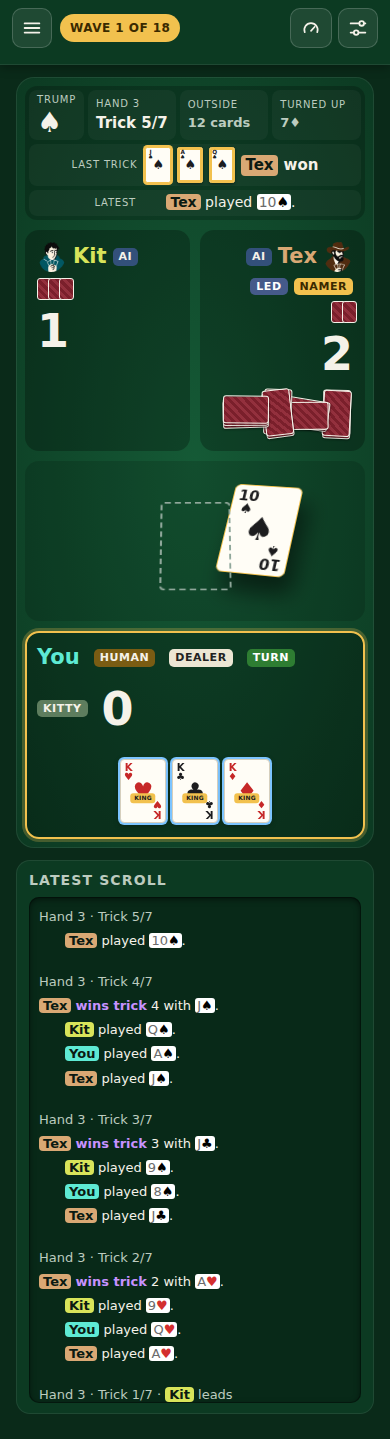
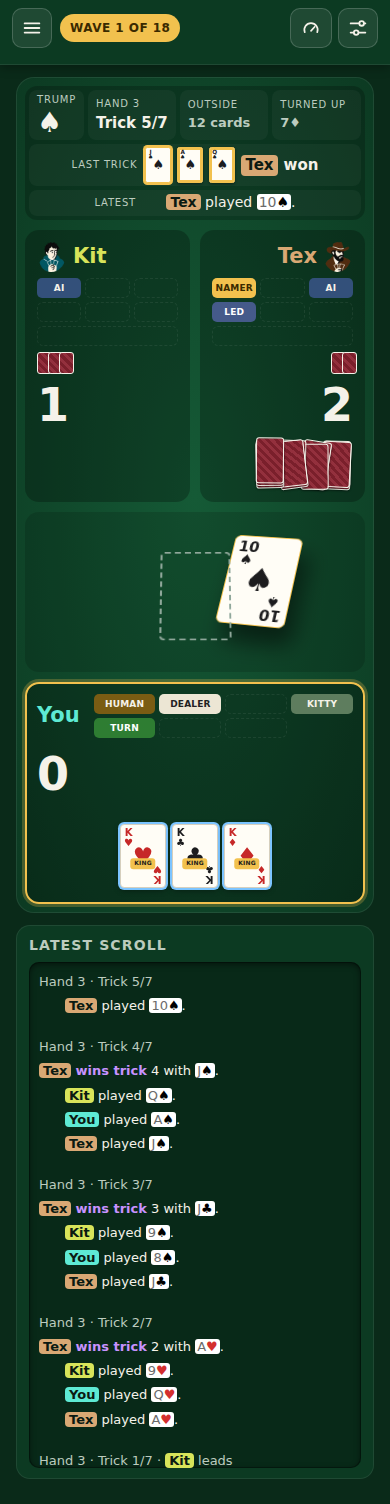
Give seat tags fixed slots; make won tricks all vertical
Every seat reserves the same tag cells (bots: a three-column grid; you:
one row of seven), so names, hand backs and scores line up across West
and East. Won-trick stacks are all vertical.

Claude-Session: https://claude.ai/code/session_01QkpazkapUFZWg4SWZB1dDA

diff --git a/mockups/advanced.js b/mockups/advanced.js
@@ -36,7 +36,20 @@ const css = `
 .seat-east .seat-head{flex-direction:row-reverse}
 .seat-east{align-items:flex-end}
 .seat-east .score-row{justify-content:flex-end}
-.seat .seat-head{order:0}.seat .backs{order:1}.seat .score-row{order:2}.seat .won{order:3}
+.seat .seat-head{order:0}.seat .tagbox{order:1}.seat .backs{order:2}.seat .score-row{order:3}.seat .won{order:4}
+.seat .backs{min-height:24px}
+/* Tags in fixed slots: every seat reserves the same cells, so names, backs and scores line up. */
+.tagbox{display:grid;grid-template-columns:repeat(3,minmax(0,1fr));grid-auto-rows:20px;gap:4px;width:100%}
+.seat-east .tagbox{direction:rtl}
+.tagbox .tag{margin:0;justify-self:stretch;display:flex;align-items:center;justify-content:center;font-size:10px;padding:0 2px;overflow:hidden;white-space:nowrap;direction:ltr}
+.tagbox .cell{border-radius:6px;outline:1px dashed rgba(255,255,255,.07);outline-offset:-1px}
+.tagbox .sd{grid-column:span 3}
+.me .tagbox{grid-template-columns:repeat(7,minmax(0,64px));width:auto}
+.me .tagbox .sd{grid-column:span 1}
+@media (max-width:720px){
+  .me .tagbox{grid-template-columns:repeat(4,minmax(0,1fr));flex:1 1 220px}.me .tagbox .sd{grid-column:span 1}
+  .tagbox .tag{font-size:9px;letter-spacing:.02em}
+}
 .won{all:unset;display:flex;flex-wrap:wrap;align-items:center;gap:4px 0;min-height:48px;padding:4px;cursor:pointer;border-radius:8px;max-width:100%}
 .won:hover{background:rgba(255,255,255,.06)}.won:focus-visible{outline:2px solid var(--gold);outline-offset:2px}
 .seat-east .won{align-self:flex-end;flex-direction:row-reverse}
@@ -63,20 +76,27 @@ const css = `
 document.head.insertAdjacentHTML('beforeend', '<style id="mockAdv">' + css + '</style>');
 // Top bar: speed icon with a label.
 const sp = $('.speed-pick'), cur = $('#speedSel'); sp.title = 'Speed: ' + cur.options[cur.selectedIndex].text;
-// Seats: Turn and Led tags in fixed order; won-trick stacks replace the text.
-const order = ['ai', 'you', 'dealer', 'turn', 'caller', 'receiver', 'led', 'mediator', 'showdown'];
+// Seats: tags move into fixed slots (bots: Human/AI, Dealer, Namer / Kitty, Turn, Led / Mediator or Showdown; you: one row);
+// won-trick stacks replace the text.
+const SLOTS = [['ai you', 'id'], ['dealer', 'dealer'], ['caller', 'namer'], ['receiver', 'kitty'], ['turn', 'turn'], ['led', 'led'], ['mediator showdown', 'sd']];
 for (const s of $$('#seat1,#seat2,#seat0')) {
   const head = $('.seat-head,.me-head', s), id = +s.id.slice(4);
   if (window.__turn === id) head.insertAdjacentHTML('beforeend', '<span class="tag turn" style="background:#2e7d32;color:#fff">Turn</span>');
   if (window.__led === id) head.insertAdjacentHTML('beforeend', '<span class="tag led" style="background:#455a8a;color:#fff">Led</span>');
-  const tags = $$('.tag', head).sort((a, b) => order.findIndex(c => a.classList.contains(c)) - order.findIndex(c => b.classList.contains(c)));
-  const score = $('.score', head); tags.forEach(t => head.insertBefore(t, score && score.parentNode === head ? score : null));
+  const tags = $$('.tag', head), box = document.createElement('div');
+  box.className = 'tagbox';
+  for (const [classes, slot] of SLOTS) {
+    const t = tags.find(x => classes.split(' ').some(c => x.classList.contains(c)));
+    if (t) { t.classList.add(slot); box.appendChild(t); } else box.insertAdjacentHTML('beforeend', '<span class="cell ' + slot + '" aria-hidden="true"></span>');
+  }
+  const score = $('.score', head);
+  if (s.id === 'seat0') head.insertBefore(box, score); else head.after(box);
   const tr = $('.tricks', s), n = +($('b', tr) || {}).textContent || 0;
   // Won tricks: one row (a single button); each trick is a rough stack of three backs.
   const jit = (i, k) => ((i * 7 + k * 13 + i * k * 5) % 9) - 4;
-  // Side by side, vertical then horizontal, a little haphazard; each stack overlaps the one before it by 20% of that stack's width.
+  // Side by side, all vertical, a little haphazard; each stack overlaps the one before it by 20% of its width.
   const east = s.id === 'seat2', side = east ? 'margin-right' : 'margin-left';
-  const tricks = Array.from({ length: n }, (_, i) => '<div class="wt ' + (i % 2 ? 'h' : 'v') + '" style="' + (i ? side + ':' + (-(i % 2 ? 28 : 46) * 0.2) + 'px;' : '') + 'z-index:' + (i + 1) + ';transform:translateY(' + jit(i, 2) * 0.75 + 'px) rotate(' + jit(i, 3) * 1.5 + 'deg)">' +
+  const tricks = Array.from({ length: n }, (_, i) => '<div class="wt v" style="' + (i ? side + ':' + (-28 * 0.2) + 'px;' : '') + 'z-index:' + (i + 1) + ';transform:translateY(' + jit(i, 2) * 0.75 + 'px) rotate(' + jit(i, 3) * 1.5 + 'deg)">' +
     [0, 1, 2].map(k => '<span style="transform:translate(' + jit(i + k, 4) * 0.6 + 'px,' + jit(i + k, 5) * 0.6 + 'px) rotate(' + jit(i + k, 6) * 1.2 + 'deg)"></span>').join('') + '</div>').join('');
   tr.outerHTML = n ? '<button type="button" class="won" aria-label="' + n + (n === 1 ? ' trick' : ' tricks') + ' won" title="' + n + (n === 1 ? ' trick' : ' tricks') + ' won">' + tricks + '</button>' : '<div class="won" aria-hidden="true"></div>';
 }

diff --git a/index.html b/index.html
@@ -2047,9 +2047,9 @@ const UI_PROFILE_ADVANCED = Object.freeze({
   // 2.1 Bot seat. East mirrors West at every level: right-aligned, parts in reverse order.
   '.seat-face': { kind: 'C', show: 'As now: the portrait.', click: 'Opens the profile dialog.' },
   '.seat-name': { kind: 'L', show: 'The name in its color, larger than now. Aligned to the seat\'s outer edge.', click: null, issue: 53 },
-  '.tag': { kind: 'L', show: 'Word tags in one fixed order: Human/AI, Dealer, Turn, Namer, Kitty, Led, then Mediator or Showdown. New: Turn and Led. Mirrored with the seat.', click: null, issue: 53 },
+  '.tag': { kind: 'L', show: 'Word tags in fixed slots, so every seat lines up (names, hand backs, scores). Bots: a three-column grid under the name, row 1 Human/AI, Dealer, Namer; row 2 Kitty, Turn, Led; row 3 Mediator or Showdown. You: one row of seven in the same order (two rows on phones). Empty slots are reserved, with a faint outline. New: Turn and Led. Mirrored with the seat.', click: null, issue: 53 },
   '.score': { kind: 'S', show: 'The score as a larger number, without "/10". Mirrored with the seat.', click: null, issue: 53 },
-  '.tricks': { kind: 'S', show: 'Won tricks in one row below the score, one button. Each trick is a rough stack of three backs; the stacks alternate vertical and horizontal, sit a little haphazard (small random tilt and offset), and each overlaps the one before it by 20% of that stack\'s width. Mirrored with the seat. A Showdown adds a second row.', click: 'When the "Look back at won tricks" setting is on (default off): a popup shows the cards of each trick in the stack. When it is off, the stack is not a control.', issue: 53 },
+  '.tricks': { kind: 'S', show: 'Won tricks in one row below the score, one button. Each trick is a rough stack of three backs, all vertical, a little haphazard (small random tilt and offset); each overlaps the one before it by 20% of its width. Mirrored with the seat. A Showdown adds a second row.', click: 'When the "Look back at won tricks" setting is on (default off): a popup shows the cards of each trick in the stack. When it is off, the stack is not a control.', issue: 53 },
   '.backs': { kind: 'S', show: 'One small back for each card in the hand, above the score. Seat order: head, hand backs, score, won-trick stack.', click: null, issue: 53 },
   '.discard-note': { kind: 'S', show: 'No text. The discarded backs slide from the hand to the outside pile.', click: null, issue: 53 },
   '.bubble': { kind: 'S', show: 'As now: "Pass", "Accepts ♠", "Names ♥ Hearts".', click: null },
